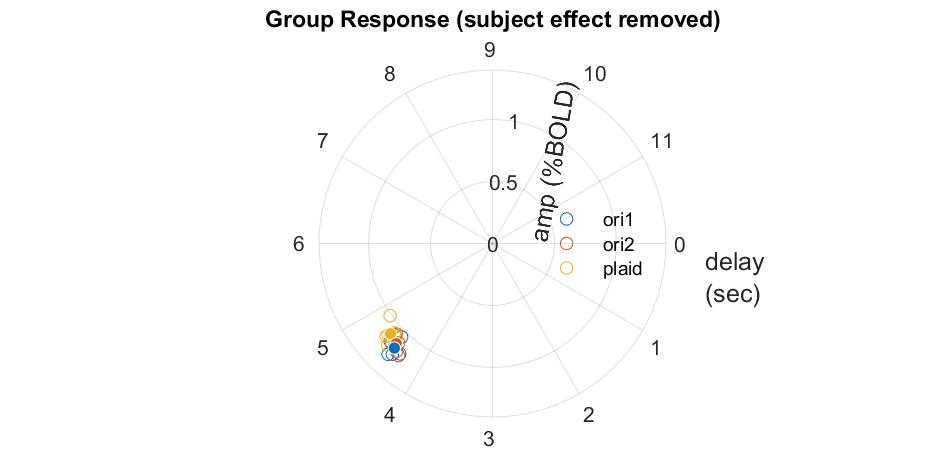
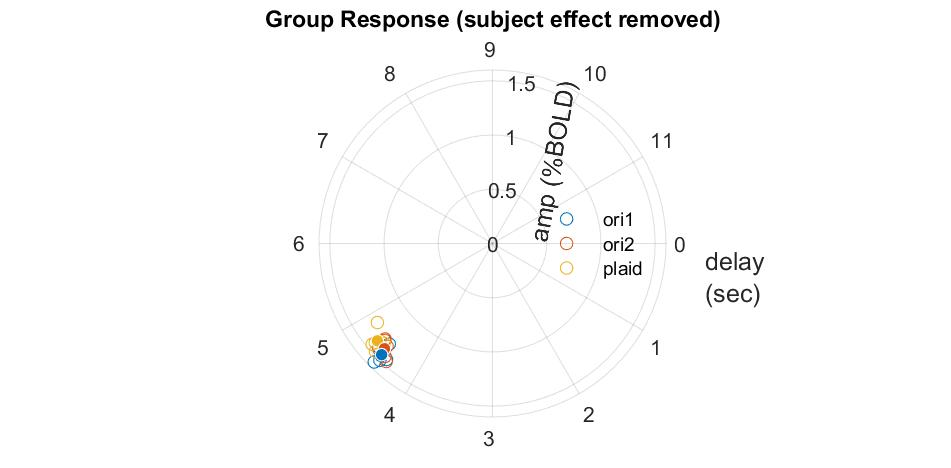
mixed

diff --git a/neuroimaging/HRdelay.m b/neuroimaging/HRdelay.m
@@ -3,8 +3,8 @@ addpath(genpath(fullfile(pwd,'matlabFun')));
 
 runFit
 
-fitType = 'fixed';
-threshType = 'p';
+fitType = 'mixed';
+threshType = 'fdr';
 veinPerc = 20;
 figOption.save = 1;
 figOption.subj = 1; % subjInd, +inf for all subj

diff --git a/neuroimaging/plotDecoding.m b/neuroimaging/plotDecoding.m
@@ -7,8 +7,8 @@ end
 
 plotUpperErrorBar = 0;
 lw = 1;
-% yLim = [12 75]./100;
-yLim = 'auto';
+yLim = [0 100]./100;
+% yLim = 'auto';
 
 spaceList = fields(res)';
 subjList = res.(spaceList{1}).subjList;
